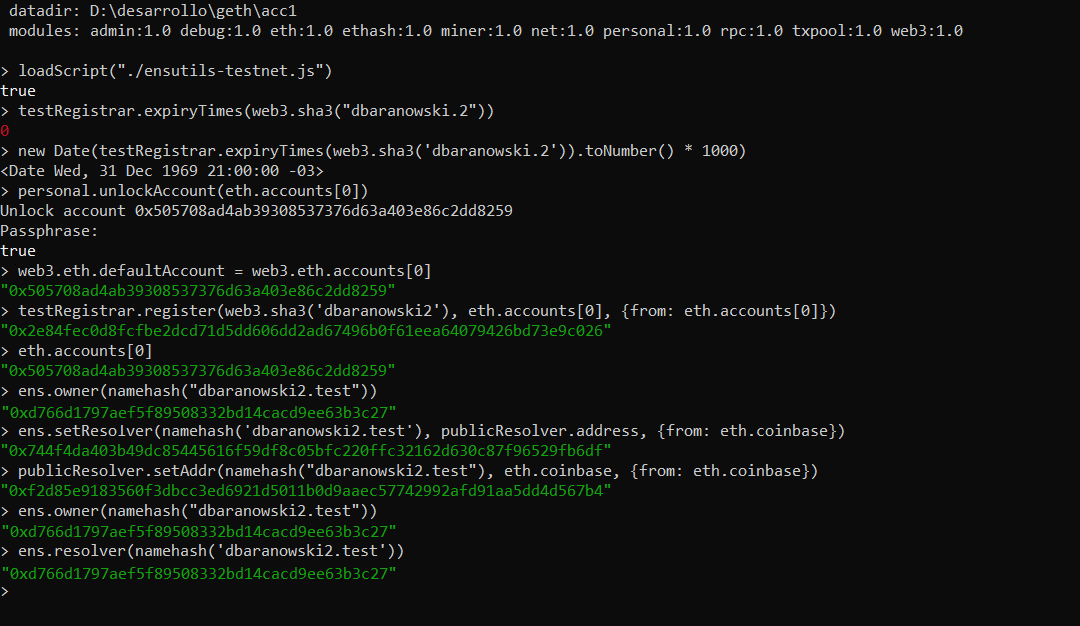
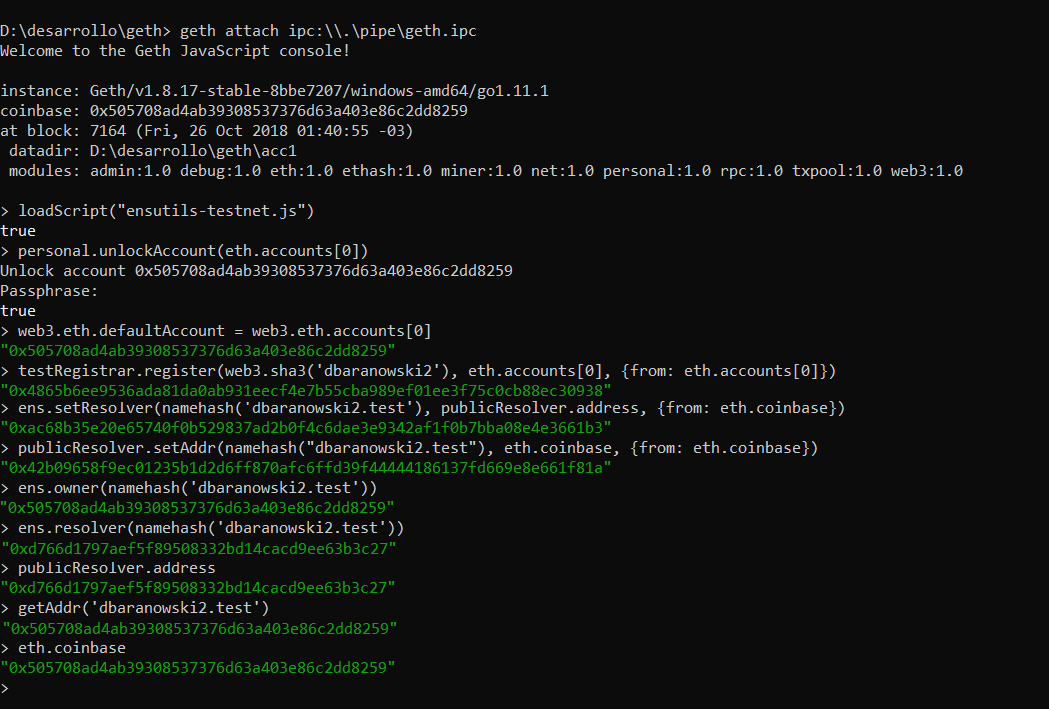
corrected images and minor typo in pec2-ej1

Changed region(s): [[0.0, 0.0, 0.9152, 0.9712], [0.7321, 0.2125, 0.9152, 0.2732]]

diff --git a/pec2/ej1/pec2-ej1.md b/pec2/ej1/pec2-ej1.md
@@ -13,12 +13,12 @@ Se realizó la prueba de desplegar el dominio en forma local, en una red de ethe
 #### [Truffle](http://truffleframework.com/docs/getting_started/installation)
  Necesario para compilación y despliegue de los contratos de ENS en la red local.
 ```
-# Para instalarlo con nodeJs
+# Para instalarlo con npm
 npm install -g truffle
 ```
 
 #### [Ethereum Wallet](https://github.com/ethereum/mist/releases/tag/v0.11.1)
-Una simple UI (parte de Mist, pero solo la Wallet), para tener una interfaz y ver las billeteras y su saldo.
+Una simple UI (parte de Mist, pero solo la Wallet), para tener una interfaz y ver las billeteras, su saldo y subir los contratos de ENS (Explicado más adelante)
 ```
 # Se descargó de:
 https://github.com/ethereum/mist/releases
@@ -39,22 +39,11 @@ Se instaló el cliente **geth** con la creación de una *blockchain propia*, com
 geth --rpc --networkid 1999 --rpcaddr 127.0.0.1 --rpcport 8545 --rpcapi "web3,eth" --rpccorsdomain "*" --datadir acc1
 ```
 
-#### Modificaciones en archivo [ensutils.js](https://github.com/ensdomains/ens/blob/master/ensutils.js)
-* Archivos complementarios: Se descargó el achivo de javascript ensutils (su versión para la [mainnet](https://github.com/ensdomains/ens/blob/master/ensutils.js), para [testnet](https://github.com/ensdomains/ens/blob/master/ensutils-testnet.js) y la [modificación para Rinkeby](https://gist.githubusercontent.com/MichalZalecki/db02810da8e582d0494adb2c5fd31f3c/raw/58feec55b99d10559b881ec5480c2d72a0445d99/ensutils-rinkeby.js)), que tiene algunas funciones requeridas para manejarnos con ENS. En ese arhivo se cambiaron las direcciones de los contratos de ENS y del Resolver, por las generadas en nuestra propia blockchain, del resultado de Truffle.
-
-```
-# ENS
-var ens = ensContract.at('0x200da6cf71ae10564210ead718d6cea7b08f6063');
-
-# Resolver
-var publicResolver = resolverContract.at('0xd766d1797aef5f89508332bd14cacd9ee63b3c27');
-```
-
 #### Despliegue de contratos [ENS](http://docs.ens.domains/en/latest/deploying.html)
 
-Al tener la red local, para poder registrar el nombre, también se tuvo que instalar los contratos de ENS en forma local. Para ello, se descargó el [código fuente](https://github.com/ensdomains/ens) de los contratos de ENS, se compilaron y desplegaron con truffle en la red local, ingresando luego las direcciones obtenidas en el [ensutils-testnet.js](ensutils-testnet.js), tanto para el contrato **ENSRegistry** como para el contrato **PublicResolver**. Se dejan documentadas las instrucciones realizadas:
+Al tener la red local, para poder registrar el nombre, también se tuvo que instalar los contratos de ENS en forma local. Para ello, se descargó el [código fuente](https://github.com/ensdomains/ens) de los contratos de ENS, se compilaron y desplegaron con truffle en la red local, ingresando luego las direcciones obtenidas en el [ensutils-testnet.js](ensutils-testnet.js) (indicado en el punto siguiente), tanto para el contrato **ENSRegistry** como para el contrato **PublicResolver**. Se dejan documentadas las instrucciones realizadas:
 
-* Descargar el [código fuente](https://github.com/ensdomains/ens
+* Descargar el [código fuente](https://github.com/ensdomains/ens)
 
 * Instalar las dependencias de nodeJs
 
@@ -138,6 +127,28 @@ Saving artifacts...
 
 ![ENS Truffle Migrate Address](images/ens-truffle-migrate-address.png?raw=true "ENS Truffle Migrate Address")
 
+Se toman nota de las direcciones generadas de los contratos ENSRegistry y PublicResolver, para incorporar luego en el ensutils-testnet.js.
+
+```
+EnsRegistry: 0x200da6cf71ae10564210ead718d6cea7b08f6063
+
+# Resolver
+publicResolver: 0xd766d1797aef5f89508332bd14cacd9ee63b3c27
+```
+
+
+#### Modificaciones en archivo [ensutils.js](https://github.com/ensdomains/ens/blob/master/ensutils.js)
+* Se descargó el achivo de javascript ensutils (su versión para la [mainnet](https://github.com/ensdomains/ens/blob/master/ensutils.js), para [testnet](https://github.com/ensdomains/ens/blob/master/ensutils-testnet.js) y la [modificación para Rinkeby](https://gist.githubusercontent.com/MichalZalecki/db02810da8e582d0494adb2c5fd31f3c/raw/58feec55b99d10559b881ec5480c2d72a0445d99/ensutils-rinkeby.js)), que tiene algunas funciones requeridas para manejarnos con ENS. En ese arhivo se cambiaron las direcciones de los contratos de ENS y del Resolver, por las generadas en nuestra propia blockchain, del resultado de Truffle.
+
+El archivo que quedó finalmente en uso, para la instalación local, es el [ensutils-testnet.js](ensutils-testnet.js).
+
+```
+# ENS
+var ens = ensContract.at('0x200da6cf71ae10564210ead718d6cea7b08f6063');
+
+# Resolver
+var publicResolver = resolverContract.at('0xd766d1797aef5f89508332bd14cacd9ee63b3c27');
+```
 
 #### Despliegue de contratos en Ethereum Wallet
 
@@ -177,7 +188,7 @@ Esas direcciones y ABI se cargaron en Ethereum Wallet
 
 Luego de instalado los requisitos, se comienza con la registración del dominio, desde la consola de Geth. Los pasos realizados fueron:
 
-* Cargar el archivo de scripts ensutils-testnet
+* Cargar el archivo de scripts ensutils-testnet.js
 ```
 loadScript("./ensutils-testnet.js")
 ```
@@ -199,12 +210,6 @@ web3.eth.defaultAccount = web3.eth.accounts[0]
 * Registrar el dominio
 ```
 testRegistrar.register(web3.sha3('dbaranowski2'), eth.accounts[0], {from: eth.accounts[0]})
-```
-
-* Validar la registración
-```
-eth.accounts[0]
-ens.owner(namehash("dbaranowski2.test"))
 ```
 
 * Configurar el resolver, para que el dominio pueda resolver una dirección
